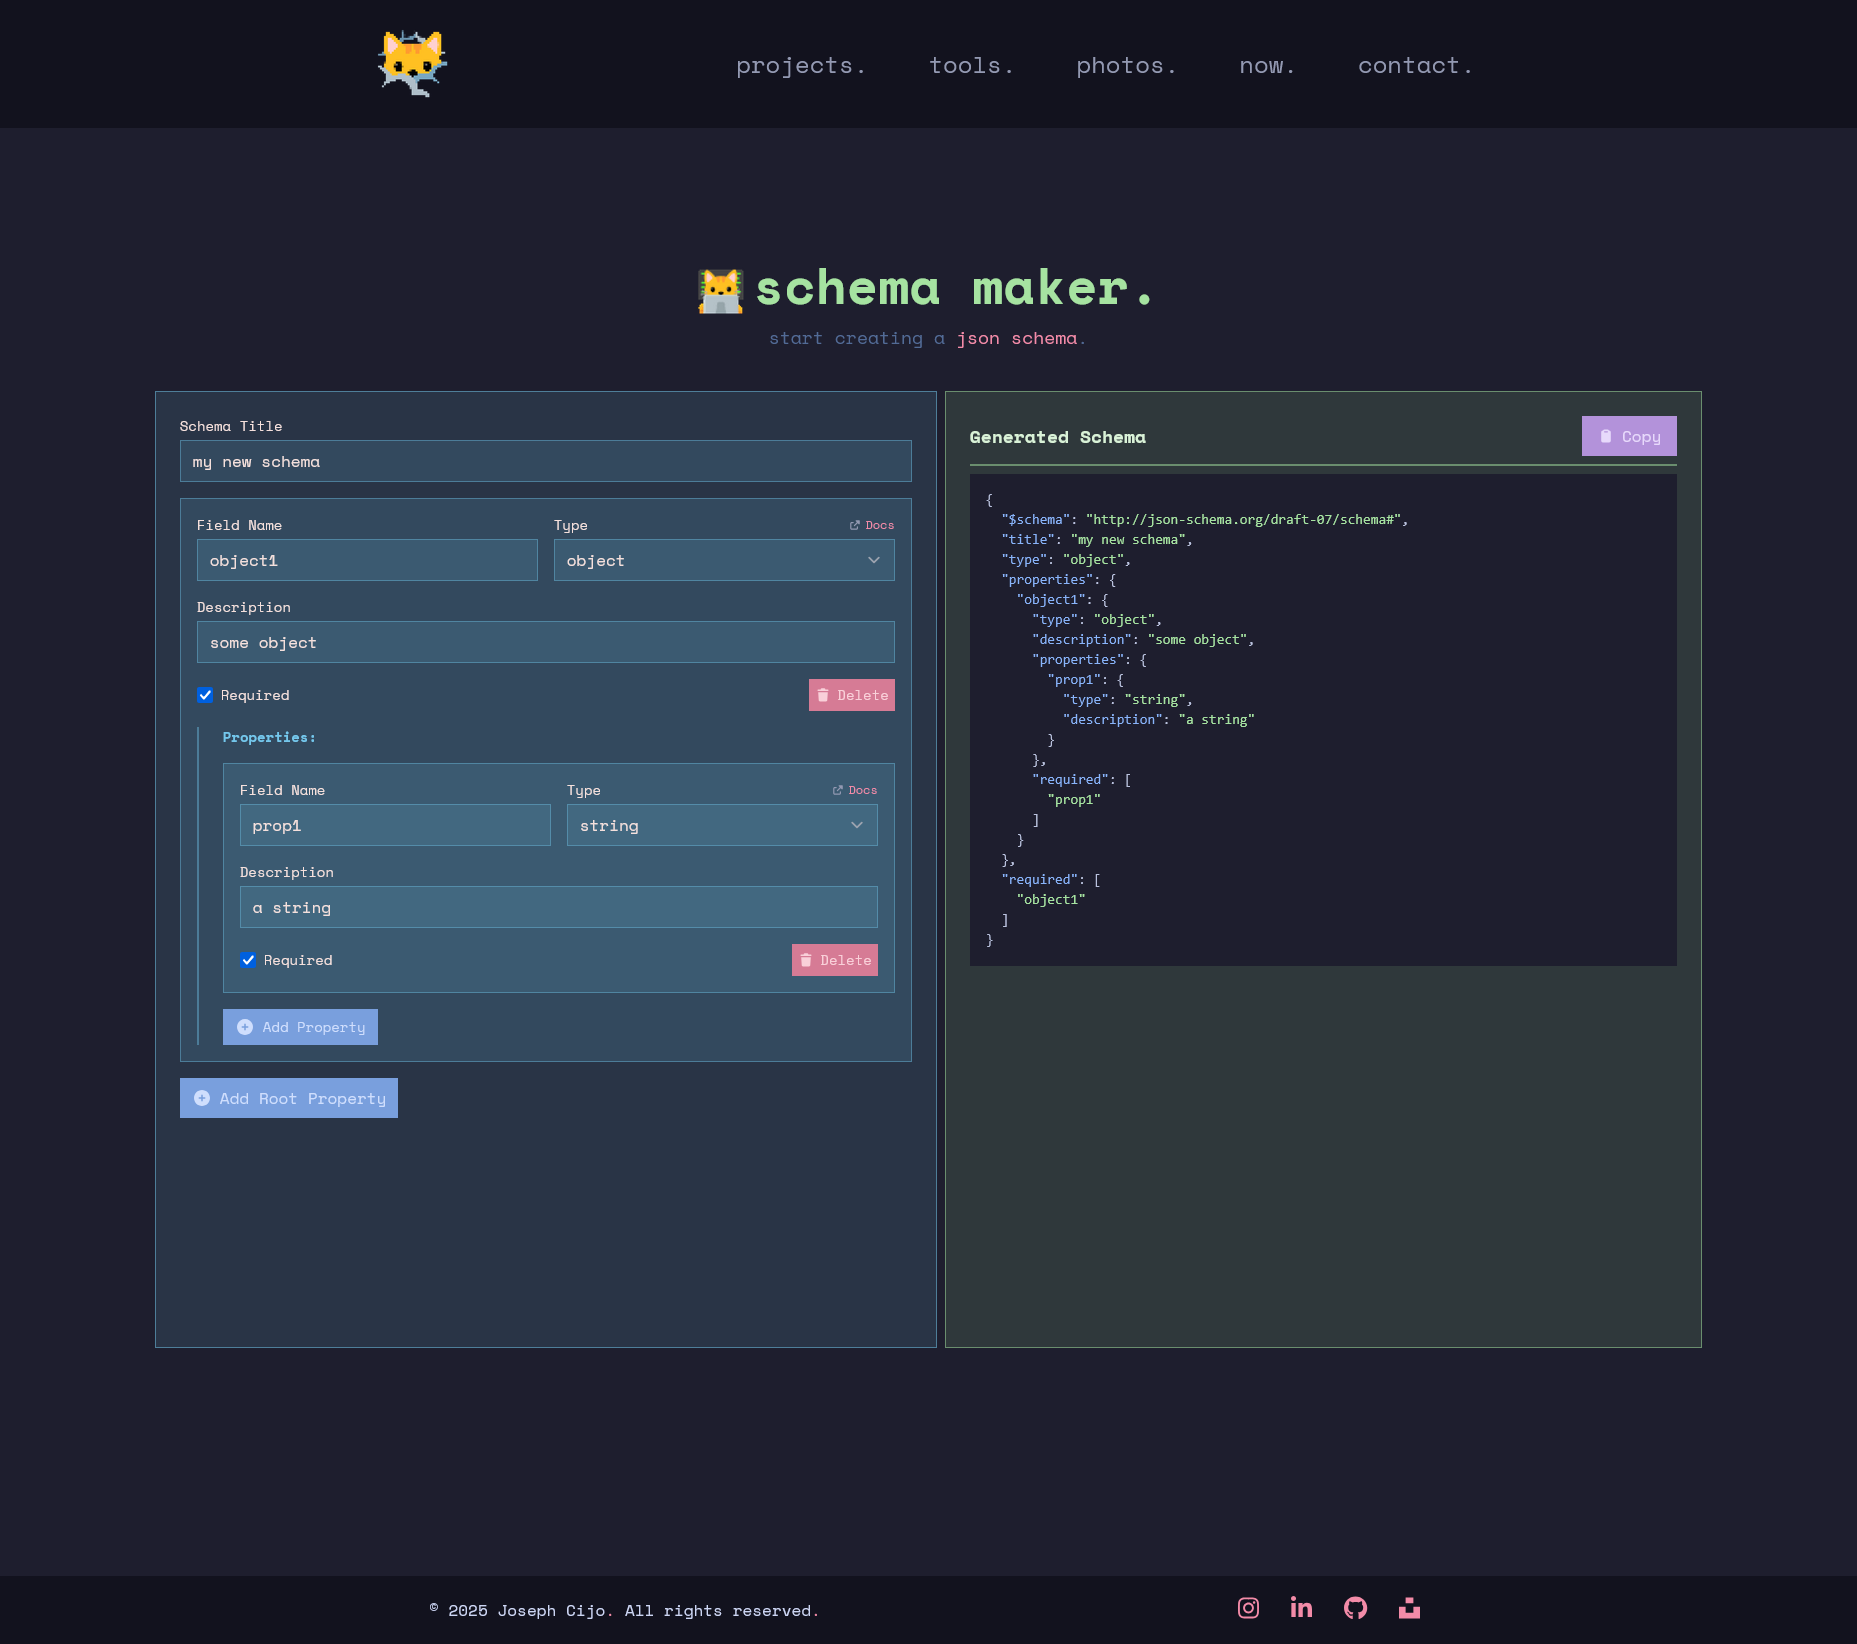
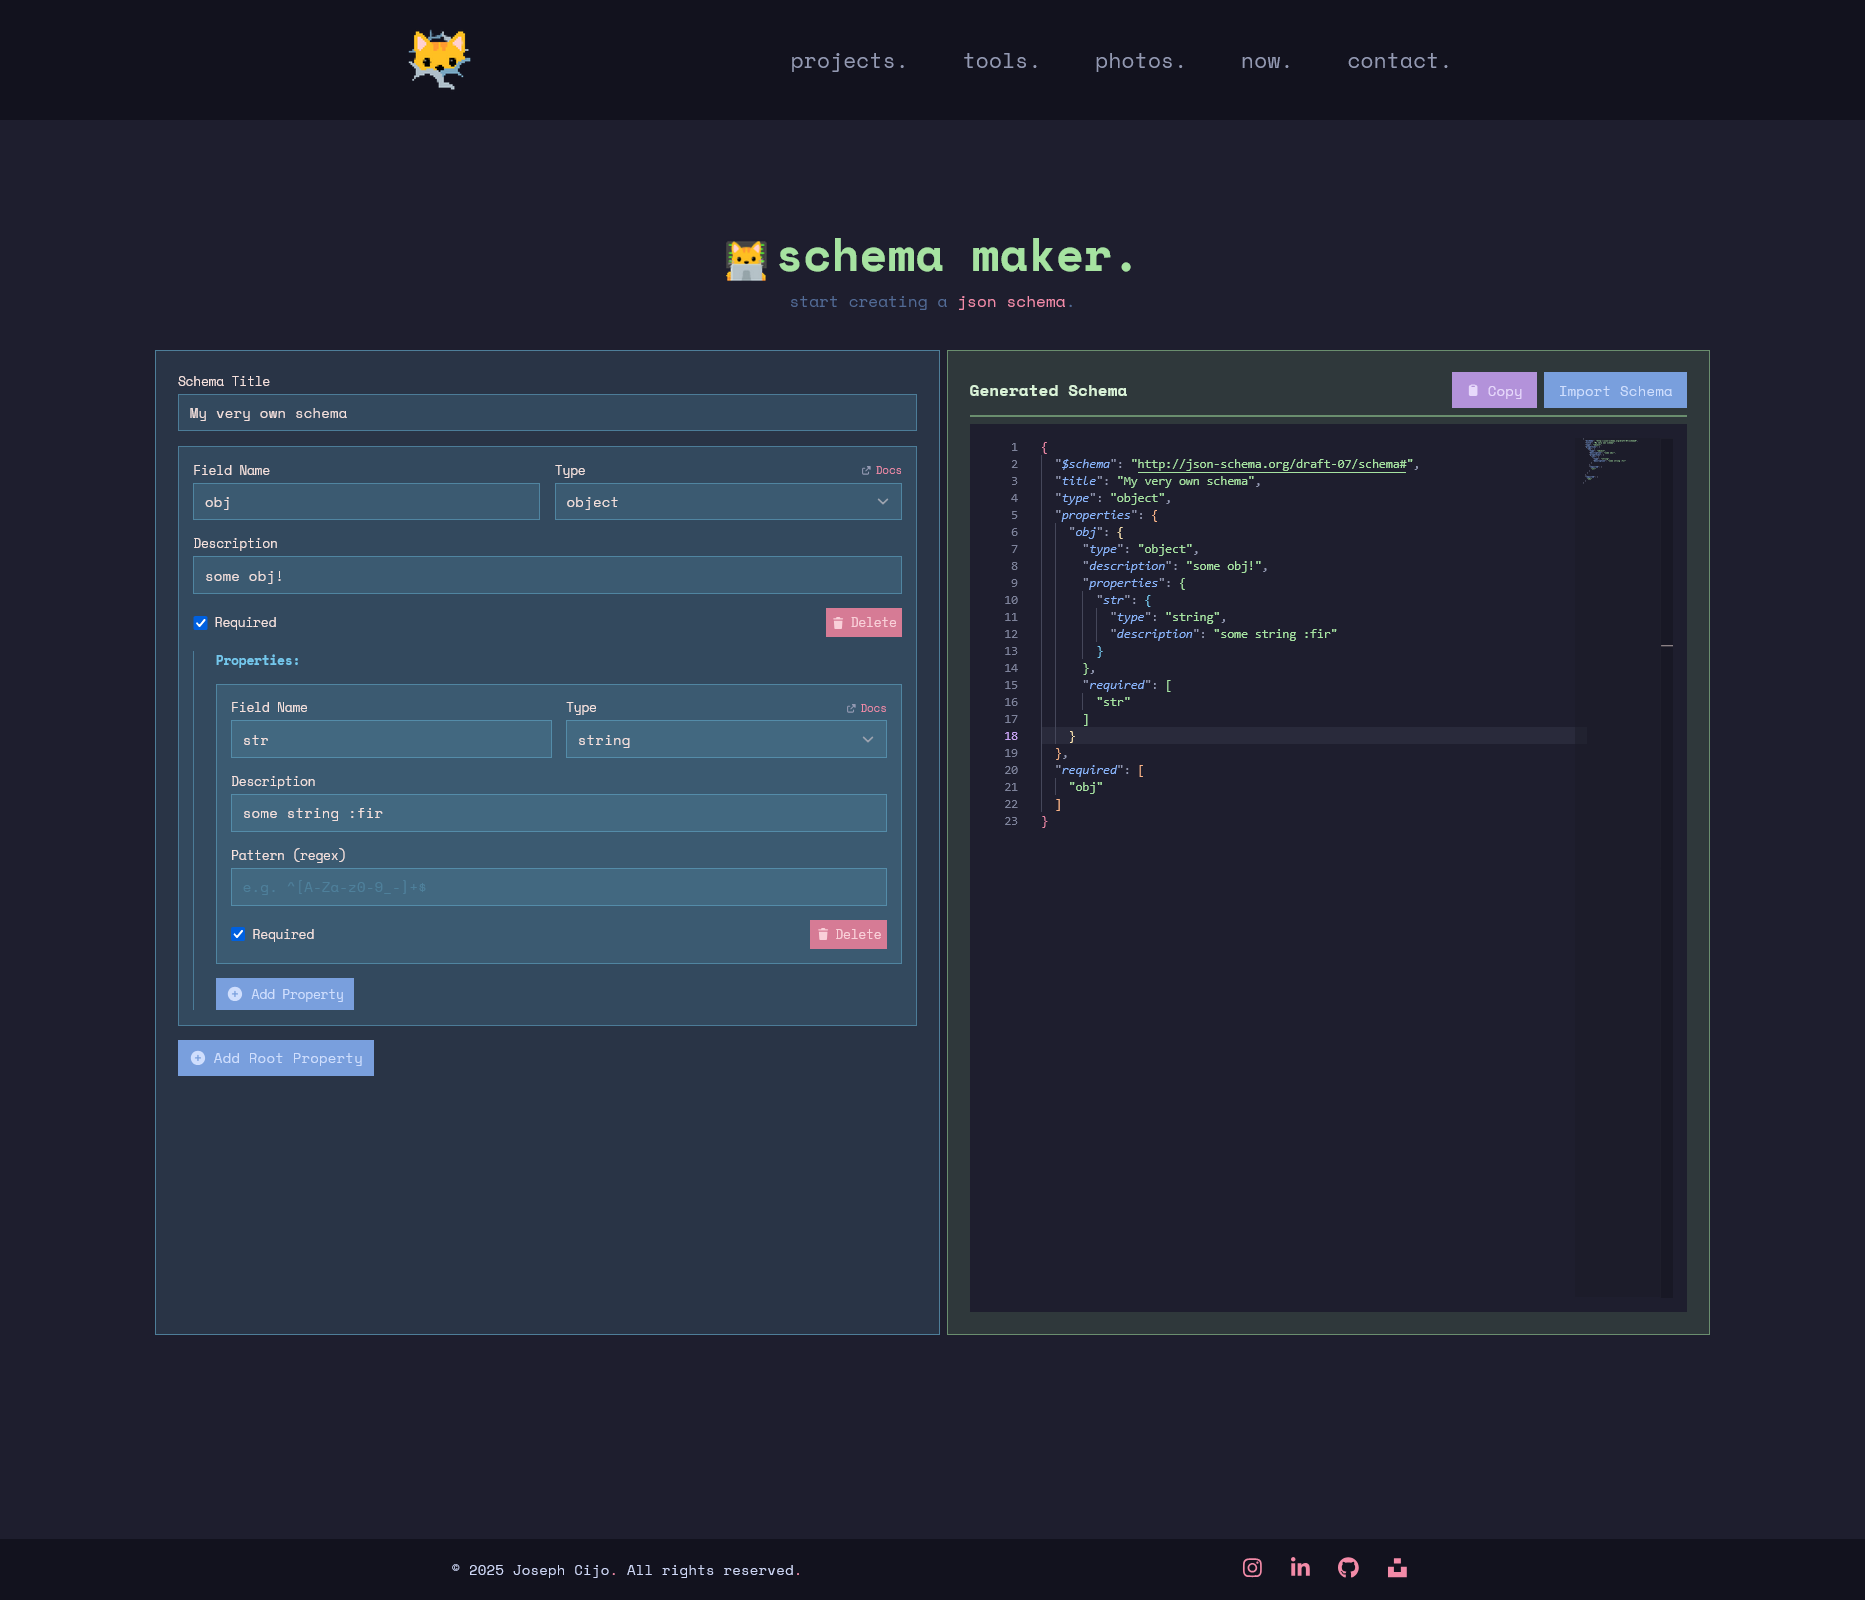
added stuffs in schemamaker readme

diff --git a/docs/SchemaMaker.readme.md b/docs/SchemaMaker.readme.md
@@ -9,19 +9,34 @@ a clientside visual [json schema](https://json-schema.org/understanding-json-sch
     <img src="../src/assets/readme/schemamaker.png" alt="Schema Maker" title="Schema Maker" >
 </p>
 
-## 📚 Docs
-
 >[!NOTE]
 > The generator only creates schemas following the [`draft-07`](https://json-schema.org/draft-07) metaschema (it is hardcoded in the for now)
 
+---
 
+## ⚙ Tech Used
 
+| Package                                                                       | Description                                                 |
+| :---------------------------------------------------------------------------- | :---------------------------------------------------------- |
+| [Monaco Editor](https://microsoft.github.io/monaco-editor/)                   | Embedded code editor used for desktop editing               |
+| [Shiki](https://shiki.style/)                                                 | Syntax highlighting and theme integration for Monaco        |
+| [highlight.js](https://highlightjs.org/)                                      | Lightweight client-side syntax highlighting (mobile viewer) |
+| [Catppuccin port for highlight.js](https://github.com/catppuccin/highlightjs) | Catppuccin color theme for highlight.js                     |
+
+---
 
 ## ✨ Features
 
 - Build JSON Schemas using Visual Blocks!
-- [Monaco Editor](https://microsoft.github.io/monaco-editor/) for dispalying the genrated schema
-  - and manually editing it!
-  - yes, you get "most" of the features of the VS Code Editor as well >:3
+- Generates JSON Schema targeting draft-07.
+- Embedded [Monaco Editor](https://microsoft.github.io/monaco-editor) to display and manually edit the generated schema.
 - [Shiki Monaco Editor Integration](https://shiki.style/packages/monaco) for the syntax highlighting (in the [catppuccin color scheme](https://github.com/catppuccin/vscode/tree/main/packages/catppuccin-vscode))
--
+- [Snippets](../src/utils/snippets.ts) and completion support inside the editor for faster schema authoring.
+- Duplicate-key detection in the UI (prevents accidental property name collisions).
+- Import-time validation and duplicate-key detection (import will be blocked on validation errors).
+- Pattern (regex) field available for string-typed properties in the UI and included in the generated schema.
+- Small Toast system (info / success / error) for feedback (save/import/copy results).
+- Copy-to-clipboard support for the generated schema.
+- Keyboard import shortcut (Ctrl/Cmd+S) in addition to import flows (desktop only).
+- Monaco is skipped on small screens (< lg) and the schema is shown as a preformatted highlighted, using [highlight.js](https://highlightjs.org/) HTML view (no inline editing).
+- Importing is disabled/hidden on mobile devices - mobile is a read-only viewer with copy support.
